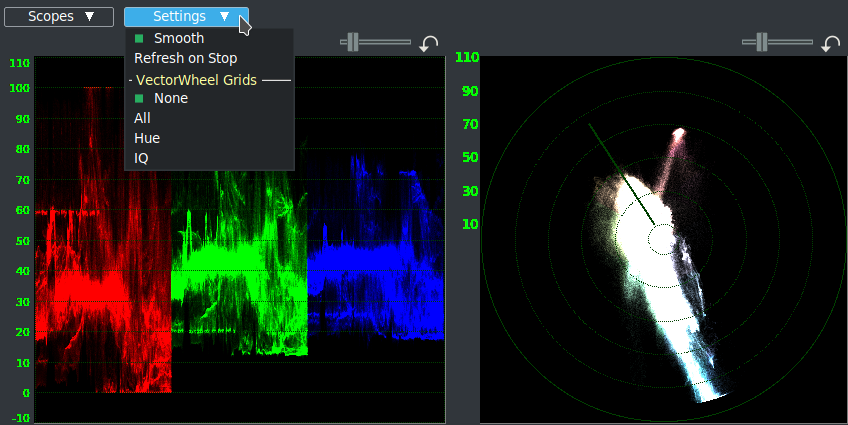
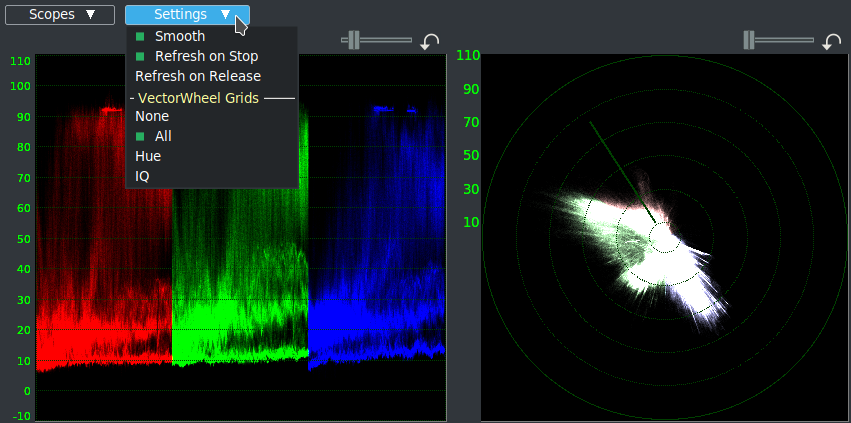
Andrea's final forever Videoscope updates

diff --git a/parts/Plugins.tex b/parts/Plugins.tex
@@ -2890,7 +2890,16 @@ and two vectorscopes:
 
 \begin{description}
 	\item[Smooth:] serves to make the graph more homogeneous, improving its visualization.
-	\item[Refresh on Stop:] is used to block frame monitoring during playback. Since videoscopes are heavy on the system, it is advisable to deactivate them during playback and reactivate them only when we have chosen the frame to examine.
+	\item[Refresh on Stop ON:] scopes are updated when you stop playback at a given location. Instead, they are locked at the start position while you playback (by dragging the cursor or using the Transport buttuns). This saves system resources and makes playback smoother.
+	\item[Refresh on Stop OFF:] the display of the scopes is synchronized with the playback. Every variation of the graphs is in realtime. There may be some decrease in fps during playback.
+	\item[Refresh on Release:] This works for the Viewer and Compositor windows. Scopes are not updated
+during playback. The update occurs only when you stop playback, that is at the final position (either by
+dragging the cursor or using the Transport buttons). When in the timeline, if you drag on the TimeBar or
+reposition in the TimeBar in either Drag and Drop or Cut and Paste mode, the release of the button also will
+update the Scopes.  This saves system resources and makes playback smoother.  Because there is no update when
+playing in the main window, you can still easily get a videoscope update simply by moving the mouse to the
+Compositor and a single click there will update the scopes without changing the frame (as long as Click to
+Play is not enabled).
 \end{description}
 
  The lower section, called \textit{VectorWheel Grids}, it is only active when VectorWheel is set up in Scopes pull-down and contains four entries (figure~\ref{fig:videoscope06}):
